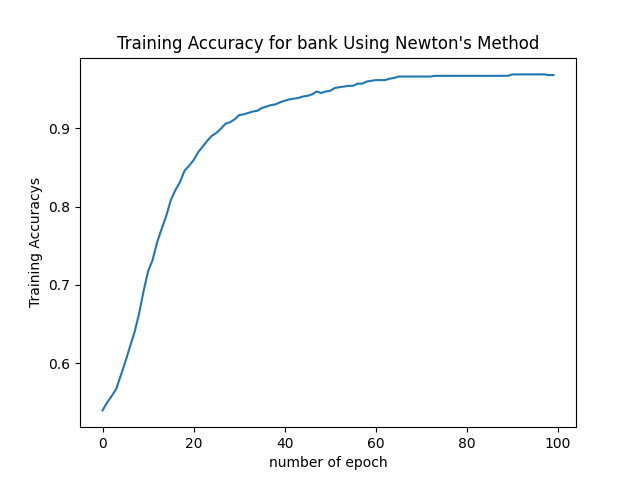
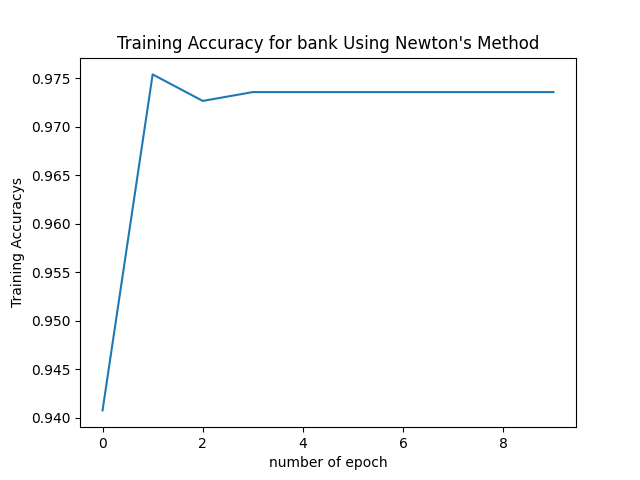
reduce num of training epoch

diff --git a/newton_method.py b/newton_method.py
@@ -36,7 +36,7 @@ class NewtonMethod():
         y = dataset[:, -1]
         return x,y
 
-    def fit(self, x, y, epoch = 100, step_size = 0.01, verbose = False):
+    def fit(self, x, y, epoch = 100,  verbose = False):
         params_num = x.shape[1]
         data_length = x.shape[0]
         self.weights = np.random.uniform(low=-0.5, high=0.5, size=params_num)                                                             
@@ -60,7 +60,7 @@ class NewtonMethod():
             inv_hess = np.linalg.inv(hess)
 
             # do the weight update
-            self.weights = self.weights  - step_size* np.squeeze(np.matmul(inv_hess, gradient))
+            self.weights = self.weights  - np.squeeze(np.matmul(inv_hess, gradient))
 
             pred = self.sigmoid(np.matmul(self.weights, x.transpose()))
             loss = self.binary_cross_entropy_loss(y, pred) 

diff --git a/driver.py b/driver.py
@@ -43,13 +43,13 @@ def driver(mode, epoch_num, dataset_name, verbose):
 
 if __name__ == "__main__":
     mode = "newton"
-    epoch_num = 100
+    epoch_num = 10
     dataset_name = "bank"
-    verbose = False
+    verbose = True
     driver(mode, epoch_num, dataset_name, verbose)
     
     mode = "gd"
-    epoch_num = 100
+    epoch_num = 10
     dataset_name = "bank"
     verbose = False
     driver(mode, epoch_num, dataset_name, verbose)
